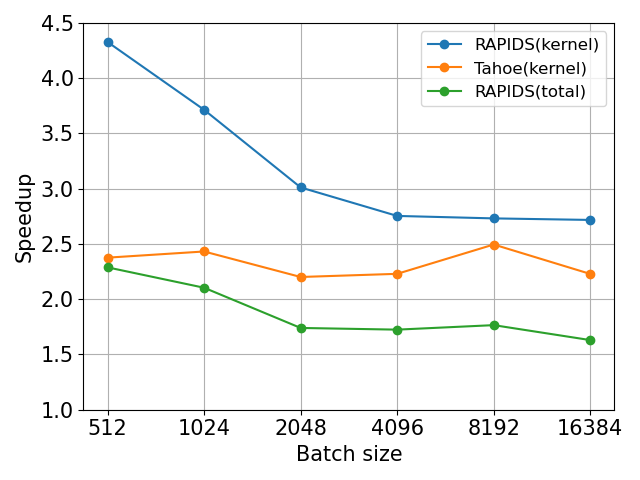
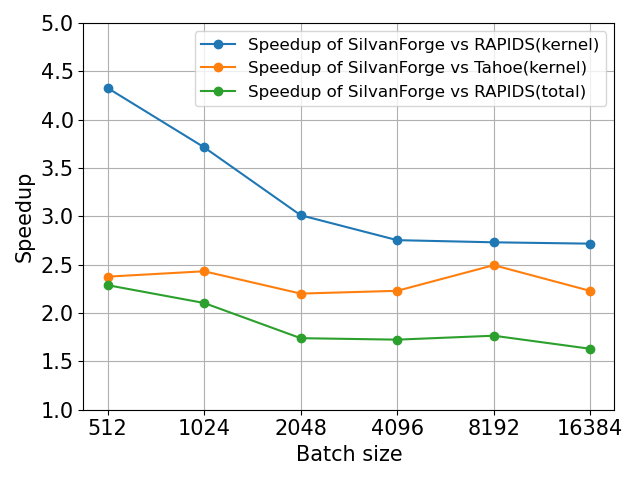
Update graph legeneds and patterns on bar graph

diff --git a/results/python/analyze_gpu_speedups_results.py b/results/python/analyze_gpu_speedups_results.py
@@ -103,8 +103,8 @@ def plot_bar_graph_speedups_for_batch_size(df, batch_size, kwargs=None):
     gap = BAR_LABEL_FONT_SIZE * 0.3
     pos = np.array([float(2 * i * width + i * gap) for i in range(len(bar_names))])
 
-    ax.bar(pos, rapids_speedup, width, label='RAPIDS')
-    ax.bar(pos+width, tahoe_speedup, width, label='Tahoe')
+    ax.bar(pos, rapids_speedup, width, label='Speedup of SilvanForge vs RAPIDS', hatch='//////')
+    ax.bar(pos+width, tahoe_speedup, width, label='Speedup of SilvanForge vs Tahoe', hatch='......')
 
     # enable grid
     # ax.grid(True, which='both', axis='y')
@@ -112,7 +112,7 @@ def plot_bar_graph_speedups_for_batch_size(df, batch_size, kwargs=None):
     ax.set_ylim(0, max(max(rapids_speedup), max(tahoe_speedup)) + 1)
 
     # Add labels and title
-    ax.set_xlabel('Benchmark', fontsize=LABEL_FONT_SIZE)
+    # ax.set_xlabel('Benchmark', fontsize=LABEL_FONT_SIZE)
     ax.set_ylabel('Speedup', fontsize=LABEL_FONT_SIZE)
     # ax.set_title(f'Speedups for Batch Size {batch_size} (4060)')
     ax.set_xticks(pos + width / 2)
@@ -204,14 +204,14 @@ plot_bar_graph_speedups_for_batch_size(results_4060_df, 1024)
 plot_bar_graph_speedups_for_batch_size(results_4060_df, 8192)
 
 # plot geomean speedup over batch sizes
-line_graph_plotter = LineGraphPlotter('4060', 'kernel_time_total_time')
-line_graph_plotter.plot_geomean_speedups_over_batch_size(results_4060_df, 'TBKernel(AT)', ['RAPIDS(kernel)', 'Tahoe(kernel)'], ['RAPIDS(kernel)', 'Tahoe(kernel)'])
-line_graph_plotter.plot_geomean_speedups_over_batch_size(results_4060_df, 'TB (AT)', ['RAPIDS (Total)'], ['RAPIDS(total)'])
+line_graph_plotter = LineGraphPlotter('4060', 'kernel_time_total_time', lower_lim=1, upper_lim=5)
+line_graph_plotter.plot_geomean_speedups_over_batch_size(results_4060_df, 'TBKernel(AT)', ['RAPIDS(kernel)', 'Tahoe(kernel)'], ['Speedup of SilvanForge vs RAPIDS(kernel)', 'Speedup of SilvanForge vs Tahoe(kernel)'])
+line_graph_plotter.plot_geomean_speedups_over_batch_size(results_4060_df, 'TB (AT)', ['RAPIDS (Total)'], ['Speedup of SilvanForge vs RAPIDS(total)'])
 line_graph_plotter.save_plot()
 
 line_graph_plotter = LineGraphPlotter('T400', 'kernel_time')
-line_graph_plotter.plot_geomean_speedups_over_batch_size(results_t400_df, 'TBKernel(AT)', ['RAPIDS(kernel)', 'Tahoe(kernel)'], ['RAPIDS(kernel)', 'Tahoe(kernel)'])
-line_graph_plotter.plot_geomean_speedups_over_batch_size(results_t400_df, 'TB(AT)', ['RAPIDS(Total)'], ['RAPIDS(total)'])
+line_graph_plotter.plot_geomean_speedups_over_batch_size(results_t400_df, 'TBKernel(AT)', ['RAPIDS(kernel)', 'Tahoe(kernel)'], ['Speedup of SilvanForge vs RAPIDS(kernel)', 'Speedup of SilvanForge vs Tahoe(kernel)'])
+line_graph_plotter.plot_geomean_speedups_over_batch_size(results_t400_df, 'TB(AT)', ['RAPIDS(Total)'], ['Speedup of SilvanForge vs RAPIDS(total)'])
 line_graph_plotter.save_plot()
 
 line_graph_plotter = LineGraphPlotter('T400', '4060_vs_T400_vs_MI2160', lower_lim=1)
